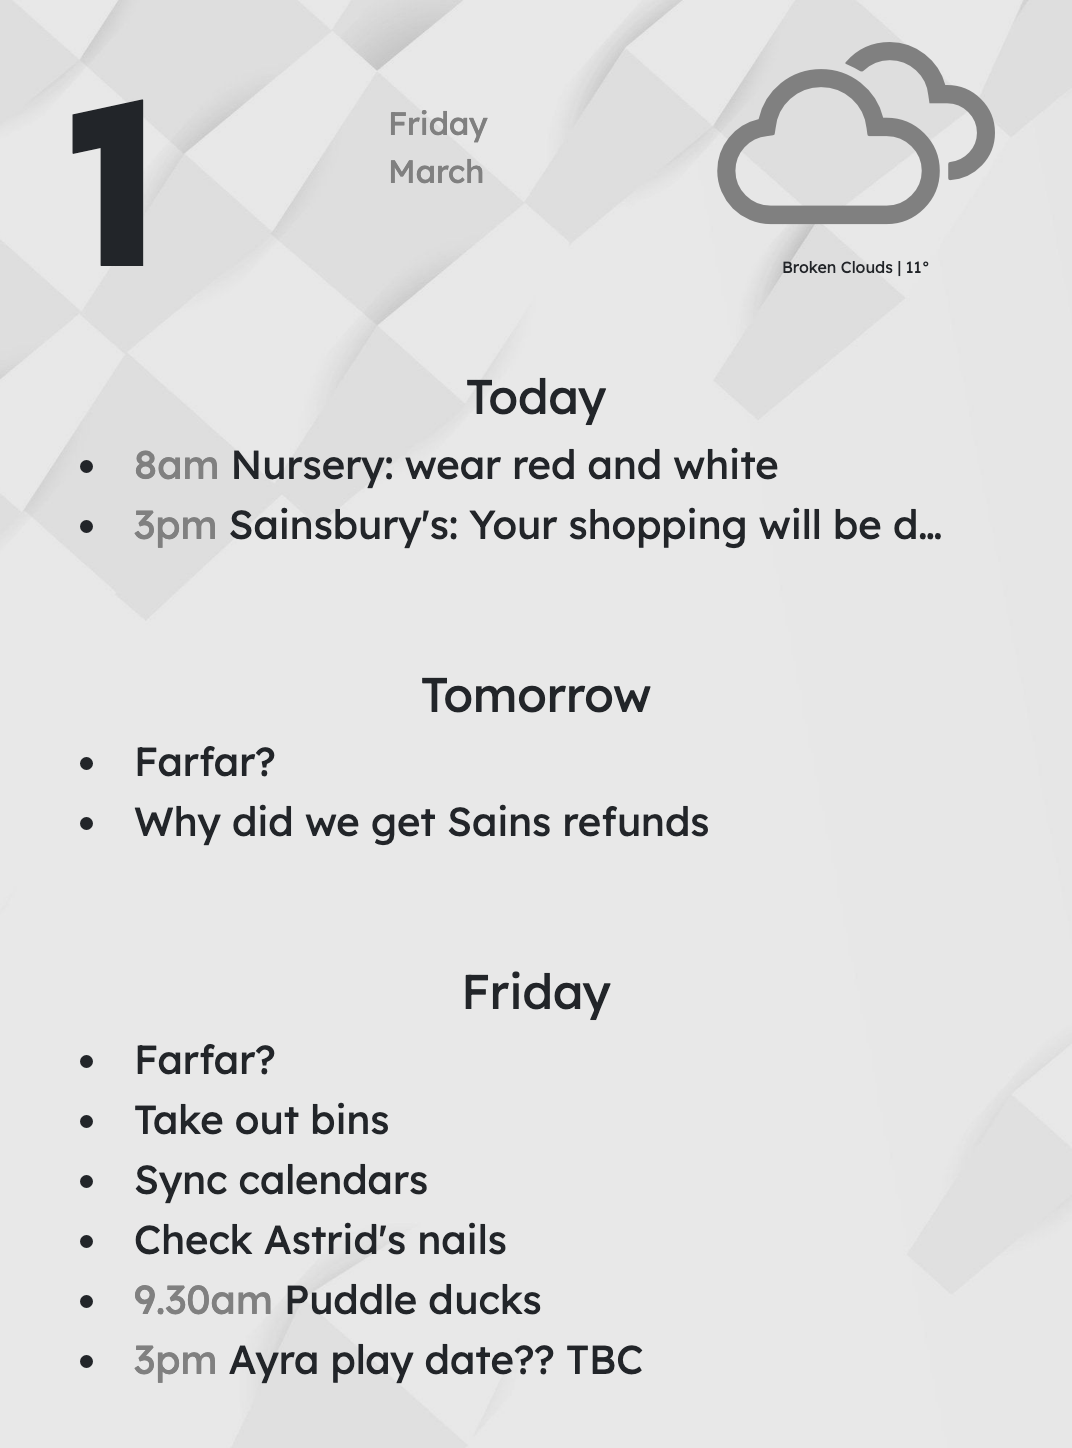
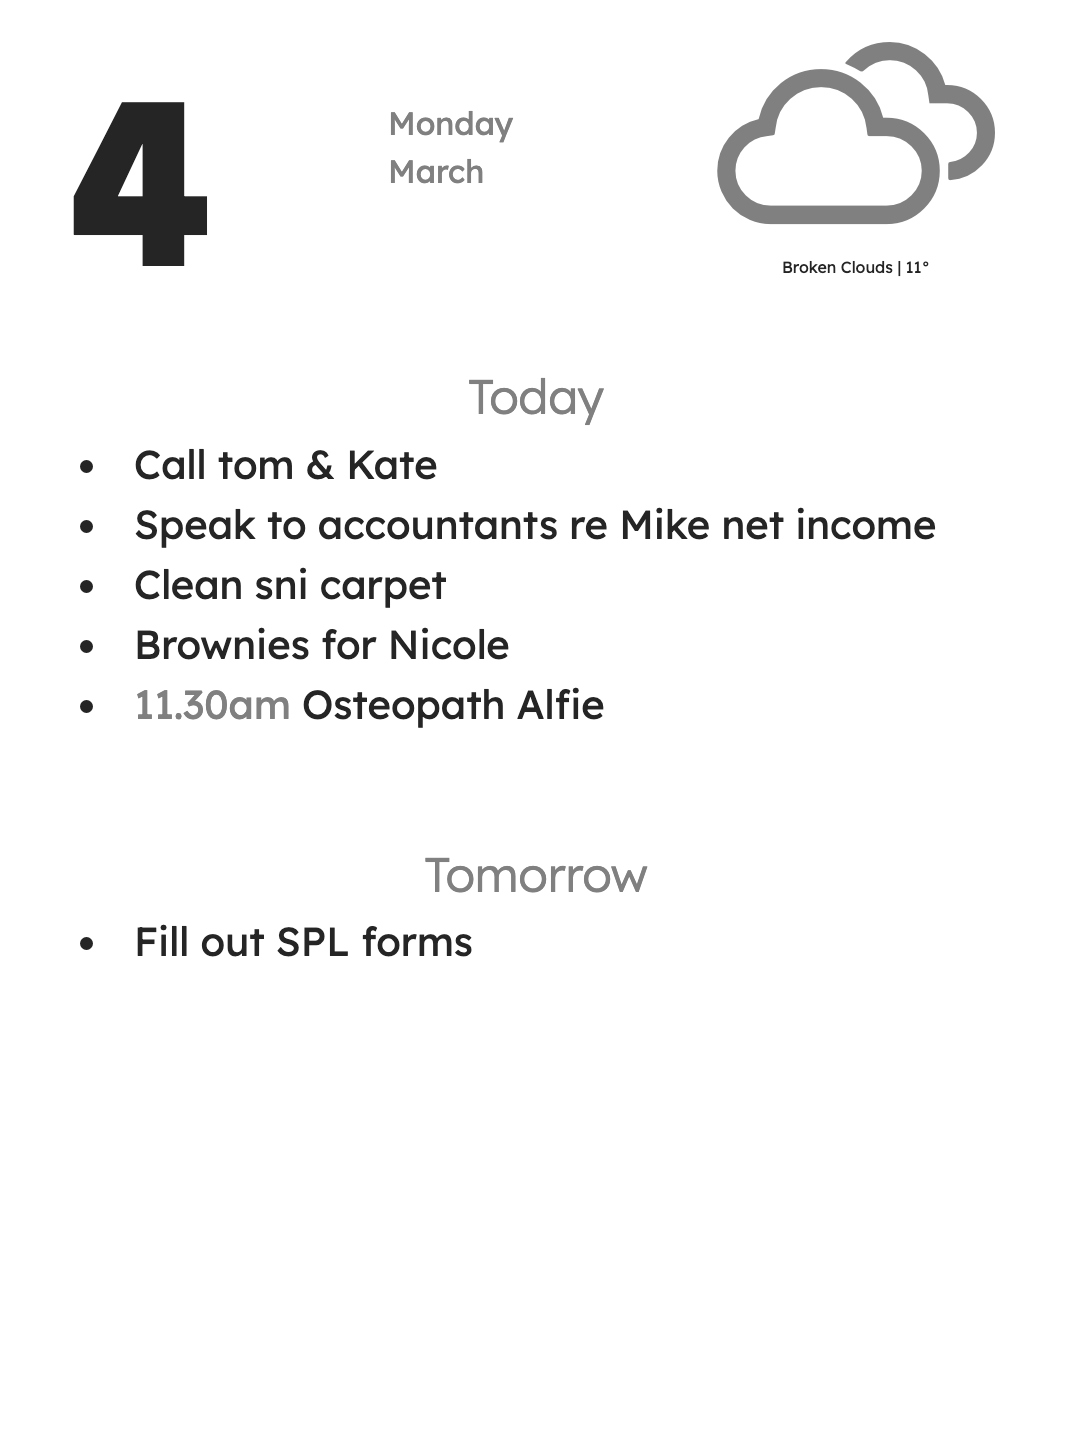
Added mvp of Pillow svg renderer, this will replace bootstrap/selenium

diff --git a/render/dashboard.html b/render/dashboard.html
@@ -12,7 +12,8 @@
 
     </head>
     
-    <body style="background: url('background.jpg') no-repeat center center fixed; background-size: cover;">
+    <!-- <body style="background: url('background.jpg') no-repeat center center fixed; background-size: cover;"> -->
+    <body>
         <div class="container">
 
             <!-- Date & Weather -->
@@ -20,12 +21,12 @@
                 
                 <!-- Today's Date -->
                 <div class="col text-left">
-                    <p class="big-day" style="margin-bottom:-50px;">1</p>
+                    <p class="big-day" style="margin-bottom:-50px;">4</p>
                 </div>
 
                 <div class="col text-left">
                     <p style="font-size: 2.5rem; font-size: 2rem; color:gray;">
-                        Friday
+                        Monday
                         <br />
                         March
                     </p>
@@ -45,10 +46,13 @@
             <!-- Calendar -->
             <div class="row my-5">
                 <div class="col">
-                    <h2>Today</h2>
+                    <h2 class="day-heading">Today</h2>
                     <ol class="list-unstyled">
-                        <div class="event"><span class="event-time">8am</span> Nursery: wear red and white</div>
-<div class="event"><span class="event-time">3pm</span> Sainsbury's: Your shopping will be delivered to Home</div>
+                        <div class="event">Call tom & Kate</div>
+                        <div class="event">Speak to accountants re Mike net income</div>
+                        <div class="event">Clean sni carpet</div>
+                        <div class="event">Brownies for Nicole</div>
+                        <div class="event"><span class="event-time">11.30am</span> Osteopath Alfie</div>
 
                     </ol>
                 </div>
@@ -56,25 +60,9 @@
                 
             <div class="row my-5">
                 <div class="col">    
-                    <h2>Tomorrow</h2>
+                    <h2 class="day-heading">Tomorrow</h2>
                     <ol class="list-unstyled">
-                        <div class="event">Farfar?</div>
-<div class="event">Why did we get Sains refunds</div>
-
-                    </ol>
-                </div>
-            </div>
-
-            <div class="row my-5">
-                <div class="col">    
-                    <h2>Friday</h2>
-                    <ol class="list-unstyled">
-                        <div class="event">Farfar?</div>
-<div class="event">Take out bins</div>
-<div class="event">Sync calendars</div>
-<div class="event">Check Astrid's nails</div>
-<div class="event"><span class="event-time">9.30am</span> Puddle ducks</div>
-<div class="event"><span class="event-time">3pm</span> Ayra play date?? TBC</div>
+                        <div class="event">Fill out SPL forms</div>
 
                     </ol>
                 </div>

diff --git a/render/dashboard_template.html b/render/dashboard_template.html
@@ -46,7 +46,7 @@
             <!-- Calendar -->
             <div class="row my-5">
                 <div class="col">
-                    <h2>Today</h2>
+                    <h2 class="day-heading">Today</h2>
                     <ol class="list-unstyled">
                         {events_today}
                     </ol>
@@ -55,18 +55,9 @@
                 
             <div class="row my-5">
                 <div class="col">    
-                    <h2>Tomorrow</h2>
+                    <h2 class="day-heading">Tomorrow</h2>
                     <ol class="list-unstyled">
                         {events_tomorrow}
-                    </ol>
-                </div>
-            </div>
-
-            <div class="row my-5">
-                <div class="col">    
-                    <h2>Friday</h2>
-                    <ol class="list-unstyled">
-                        {events_dayafter}
                     </ol>
                 </div>
             </div>

diff --git a/render/css/styles.css b/render/css/styles.css
@@ -9,8 +9,13 @@
 }
 
 @font-face {
-    font-family: "Lexend-Light";
+    font-family: "Lexend-Bold";
     src: url('../font/Lexend-Bold.ttf');
+}
+
+@font-face {
+    font-family: "Lexend-ExtraLight";
+    src: url('../font/Lexend-ExtraLight.ttf');
 }
 
 @font-face {
@@ -26,6 +31,11 @@ h1, h2, p, span, .h1, .h2, .p, .span  {
 h2 {
     font-size: 3rem;
     text-align: center;
+}
+
+.day-heading {
+    font-family: "Lexend-Light", sans-serif;
+    color: gray;
 }
 
 .list-unstyled {

diff --git a/render/render_svg.py b/render/render_svg.py
@@ -1,0 +1,97 @@
+from PIL import Image, ImageDraw, ImageFont
+
+# TODO: tidy up how fonts are loaded and stored in dicts – see what you need in the actual dash
+
+# Define font properties
+font_color = "black"
+font_sizes = {
+    "light": 48, 
+    "regular": 48,
+    "bold": 200,
+    "weather": 150
+}
+
+font_dir = "/Users/mike.holmes/projects/home-display/render/font/"
+font_names = {
+    "light": "Lexend-Light.ttf", 
+    "regular": "Lexend-Regular.ttf", 
+    "bold": "Lexend-Bold.ttf",
+    "weather": "weathericons-regular-webfont.ttf"}
+
+# Create font objects
+fonts = {style: ImageFont.truetype(font_dir + font_names[style], font_sizes[style]) for style in font_sizes}
+
+# Define image size and background color
+image_width, image_height = 1072, 1448
+background_color = "white"
+margin_l = 100
+margin_r = 100
+
+centre_h = image_width/2
+centre_v = image_height/2
+
+# Create a new image with a white background
+image = Image.new("RGB", (image_width, image_height), background_color)
+draw = ImageDraw.Draw(image)
+# draw.font = ImageFont.truetype("/Users/mike.holmes/projects/home-display/render/font/Lexend-Regular.ttf") # default
+
+
+# Define current date and weather (replace these with actual values)
+day_num = "24"
+day_name = "Mon"
+month = "Feb"
+weather = "Broken clouds | 11º"
+weather_icon = "\uf00d"
+
+# Top row
+toprow_baseline = 250
+space_below_toprow = 150
+
+# Date
+draw.text((margin_l,toprow_baseline), f"{day_num}", font=fonts["bold"], fill="black", anchor="ls")
+
+# TODO: 
+# - get this working with multiline (i.e. day name)
+# - move it left/right depending on width of date
+draw.text((380,toprow_baseline), f"{month}", font=fonts["regular"], fill="gray", anchor="ls")
+
+# Weather
+# TODO: 
+# - map this to openweathermap id
+# - Add temperature
+draw.text((image_width-margin_r,toprow_baseline), f"{weather_icon}", font=fonts["weather"], fill="black", anchor="rb")
+
+# Cal - today
+# TODO: horizontal line either side of title extending to margins
+pos_today_title = toprow_baseline + space_below_toprow
+draw.text((centre_h,pos_today_title), "Today", font=fonts["regular"], fill="gray", anchor="ms")
+
+def list_to_bullets(list):
+    return "\n".join([f"•   {x}" for x in list])
+
+events_today = [
+    "Today's event 1",
+    "Event 2",
+    "event 3",
+    "event 4",
+    "event 5"
+]
+
+ascent, descent = fonts["regular"].getmetrics()
+height_regular_font = ascent+descent
+
+draw.text((margin_l,pos_today_title + height_regular_font), list_to_bullets(events_today), font=fonts["regular"], fill="black", anchor="ls", align="left")
+
+# Cal - tomorrow
+pos_tomorrow_title = pos_today_title + (height_regular_font * (1+len(events_today)))
+draw.text((centre_h,pos_tomorrow_title), "Tomorrow", font=fonts["regular"], fill="gray", anchor="ms")
+
+events_tomorrow = [
+    "Tomorrow's event 1",
+    "Event 2",
+    "event 3"
+]
+draw.text((margin_l,pos_tomorrow_title + height_regular_font), list_to_bullets(events_tomorrow), font=fonts["regular"], fill="black", anchor="ls", align="left")
+
+# Save the image as PNG
+image.save("dashboard_test.png")

diff --git a/render/render.py b/render/render.py
@@ -13,7 +13,7 @@ from time import sleep
 from datetime import timedelta
 import pathlib
 import string
-from PIL import Image
+from PIL import Image, ImageDraw, ImageFont
 import logging
 from selenium.webdriver.common.by import By
 import io
@@ -60,7 +60,7 @@ class RenderHelper:
         img = Image.open(io.BytesIO(screenshot))
         img = img.convert('L') # convert to grayscale and remove alpha; needed for Kindle's eips to render properly
         img.save(self.currPath + '/dashboard.png')
-        img.save(path_to_server_image)
+        # img.save(path_to_server_image)
 
         self.logger.info('Screenshot captured and saved to file.')
 
@@ -112,36 +112,15 @@ class RenderHelper:
             day=current_date.strftime("%-d"),
             month=current_date.strftime("%B"),
             weekday=current_date.strftime("%A"),
-            # tomorrow=(current_date + timedelta(days=1)).strftime("%A"),
-            dayafter=(current_date + timedelta(days=2)).strftime("%A"),
             events_today=cal_events_list[0],
             events_tomorrow=cal_events_list[1],
-            events_dayafter=cal_events_list[2],
-            
-            # I'm choosing to show the forecast for the next hour instead of the current weather
-            # current_weather_text=string.capwords(current_weather["weather"][0]["description"]),
-            # current_weather_id=current_weather["weather"][0]["id"],
-            # current_weather_temp=round(current_weather["temp"]),
-            
-            
             current_weather_text=string.capwords(hourly_forecast[1]["weather"][0]["description"]),
             current_weather_id=hourly_forecast[1]["weather"][0]["id"],
             current_weather_temp=round(hourly_forecast[1]["temp"]),
             
-            
-            # today_weather_id=daily_forecast[0]["weather"][0]["id"],
-            # tomorrow_weather_id=daily_forecast[1]["weather"][0]["id"],
-            # dayafter_weather_id=daily_forecast[2]["weather"][0]["id"],
-            # today_weather_pop=str(round(daily_forecast[0]["pop"] * 100)),
-            # tomorrow_weather_pop=str(round(daily_forecast[1]["pop"] * 100)),
-            # dayafter_weather_pop=str(round(daily_forecast[2]["pop"] * 100)),
-            # today_weather_min=str(round(daily_forecast[0]["temp"]["min"])),
-            # tomorrow_weather_min=str(round(daily_forecast[1]["temp"]["min"])),
-            # dayafter_weather_min=str(round(daily_forecast[2]["temp"]["min"])),
-            # today_weather_max=str(round(daily_forecast[0]["temp"]["max"])),
-            # tomorrow_weather_max=str(round(daily_forecast[1]["temp"]["max"])),
-            # dayafter_weather_max=str(round(daily_forecast[2]["temp"]["max"])),
         ))
         htmlFile.close()
 
         self.get_screenshot(path_to_server_image)
+
+    
